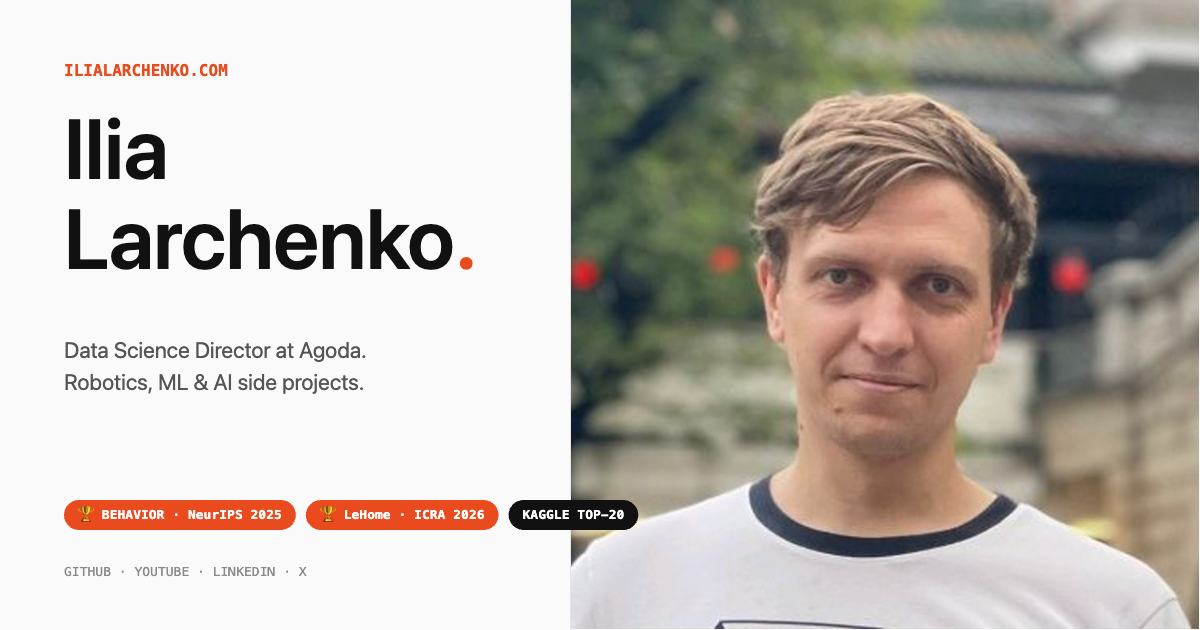
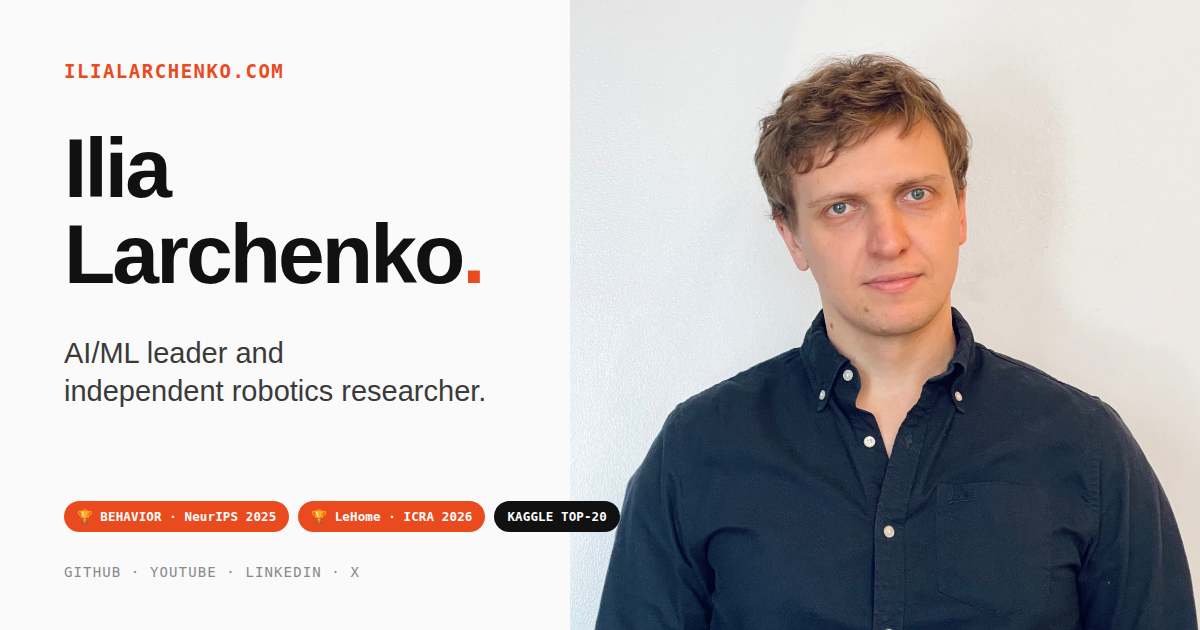
Updated the main page

diff --git a/index.html b/index.html
@@ -2,9 +2,9 @@
 <html lang="en">
 <head>
   <meta charset="utf-8">
-  <title>Ilia Larchenko — ML, AI, robotics</title>
+  <title>Ilia Larchenko | AI/ML Leader &amp; Robotics Researcher</title>
   <meta name="viewport" content="width=device-width, initial-scale=1">
-  <meta name="description" content="Ilia Larchenko — Data Science Director at Agoda, robotics &amp; ML side projects. BEHAVIOR Challenge 1st place, Kaggle TOP-20, open-source VLA models.">
+  <meta name="description" content="AI/ML leader and independent robotics researcher. Winner of the NeurIPS 2025 BEHAVIOR Challenge, 1st in simulation / 2nd on real hardware at ICRA LeHome 2026, Kaggle global top-20, Director of Data Science at Agoda.">
   <meta name="author" content="Ilia Larchenko">
   <meta name="color-scheme" content="light">
   <link rel="canonical" href="https://ilialarchenko.com/">
@@ -12,8 +12,8 @@
   <!-- ═══ Open Graph (Facebook, LinkedIn, Slack, Discord, Telegram, iMessage…) ═══ -->
   <meta property="og:type" content="profile">
   <meta property="og:site_name" content="Ilia Larchenko">
-  <meta property="og:title" content="Ilia Larchenko — ML, AI, robotics">
-  <meta property="og:description" content="Data Science Director at Agoda. Robotics, ML &amp; AI side projects. 1st place at BEHAVIOR Challenge (NeurIPS 2025) and LeHome Challenge (ICRA 2026). Kaggle TOP-20.">
+  <meta property="og:title" content="Ilia Larchenko | AI/ML Leader &amp; Robotics Researcher">
+  <meta property="og:description" content="AI/ML leader and independent robotics researcher. Winner of the NeurIPS 2025 BEHAVIOR Challenge, 1st in simulation / 2nd on real hardware at ICRA LeHome 2026, Kaggle global top-20, Director of Data Science at Agoda.">
   <meta property="og:url" content="https://ilialarchenko.com/">
   <meta property="og:locale" content="en_US">
   <meta property="og:image" content="https://ilialarchenko.com/assets/og-image.png">
@@ -21,7 +21,7 @@
   <meta property="og:image:type" content="image/png">
   <meta property="og:image:width" content="1200">
   <meta property="og:image:height" content="630">
-  <meta property="og:image:alt" content="Ilia Larchenko — Data Science Director at Agoda. Robotics, ML &amp; AI side projects.">
+  <meta property="og:image:alt" content="Ilia Larchenko — AI/ML leader and independent robotics researcher.">
   <meta property="profile:first_name" content="Ilia">
   <meta property="profile:last_name" content="Larchenko">
   <meta property="profile:username" content="IliaLarchenko">
@@ -30,10 +30,10 @@
   <meta name="twitter:card" content="summary_large_image">
   <meta name="twitter:site" content="@IliaLarchenko">
   <meta name="twitter:creator" content="@IliaLarchenko">
-  <meta name="twitter:title" content="Ilia Larchenko — ML, AI, robotics">
-  <meta name="twitter:description" content="Data Science Director at Agoda. Robotics, ML &amp; AI side projects. 1st place at BEHAVIOR (NeurIPS 2025) and LeHome (ICRA 2026). Kaggle TOP-20.">
+  <meta name="twitter:title" content="Ilia Larchenko | AI/ML Leader &amp; Robotics Researcher">
+  <meta name="twitter:description" content="AI/ML leader and independent robotics researcher. NeurIPS 2025 BEHAVIOR Challenge winner, 1st sim / 2nd real at ICRA LeHome 2026, Kaggle global top-20, Director of Data Science at Agoda.">
   <meta name="twitter:image" content="https://ilialarchenko.com/assets/og-image.png">
-  <meta name="twitter:image:alt" content="Ilia Larchenko — Data Science Director at Agoda. Robotics, ML &amp; AI side projects.">
+  <meta name="twitter:image:alt" content="Ilia Larchenko — AI/ML leader and independent robotics researcher.">
 
   <!-- ═══ Theme color for browser chrome on share previews / mobile ═══ -->
   <meta name="theme-color" content="#FAFAFA">
@@ -48,8 +48,16 @@
     "familyName": "Larchenko",
     "url": "https://ilialarchenko.com/",
     "image": "https://ilialarchenko.com/assets/og-image.png",
+    "description": "AI/ML leader and independent robotics researcher. Director of Data Science at Agoda. Winner of the NeurIPS 2025 BEHAVIOR Challenge; 1st in simulation and 2nd on real hardware at the ICRA 2026 LeHome Challenge; Kaggle global top-20.",
     "jobTitle": "Director of Data Science",
     "worksFor": { "@type": "Organization", "name": "Agoda" },
+    "knowsAbout": ["Robotics", "Reinforcement learning", "Imitation learning", "Vision-language-action models", "Sim-to-real transfer", "Robot manipulation", "Machine learning", "Data science"],
+    "award": [
+      "1st place, BEHAVIOR Challenge (NeurIPS 2025)",
+      "1st place simulation round and 2nd place real-robot final, LeHome Challenge (ICRA 2026)",
+      "3rd place, Abstraction and Reasoning Challenge (Kaggle 2020)",
+      "Kaggle Competitions Master, peak global top-20"
+    ],
     "alumniOf": { "@type": "CollegeOrUniversity", "name": "Moscow Institute of Physics and Technology" },
     "sameAs": [
       "https://github.com/IliaLarchenko",
@@ -251,6 +259,22 @@
       color: var(--fg-2);
       max-width: 560px;
     }
+    .tile-name p.tagline {
+      font-size: clamp(17px, 1.7vw, 21px);
+      font-weight: 500;
+      line-height: 1.35;
+      letter-spacing: -0.01em;
+      color: var(--fg-1);
+    }
+    .tile-name p.creds {
+      margin-top: 12px;
+      font-family: var(--font-mono);
+      font-size: 12.5px;
+      line-height: 1.7;
+      letter-spacing: 0.01em;
+      color: var(--fg-2);
+    }
+    .tile-name p.creds .sep { color: var(--fg-3); margin: 0 4px; }
     .tile-photo {
       padding: 0;
       overflow: hidden;
@@ -331,6 +355,13 @@
       border-bottom: 1px solid transparent;
     }
     .section-head .more:hover { color: var(--fg-1); border-bottom-color: var(--fg-1); }
+    .section-intro {
+      margin: -12px 0 28px;
+      max-width: 72ch;
+      font-size: 16px;
+      line-height: 1.6;
+      color: var(--fg-2);
+    }
 
     /* ─── About ────────────────────────────────────────────── */
     .about-grid {
@@ -686,7 +717,7 @@
     <div class="nav-sections">
       <a href="#about">About</a>
       <a href="#career">Career</a>
-      <a href="#competitions">Competitions</a>
+      <a href="#research">Research &amp; Competitions</a>
       <a href="#videos">Videos</a>
       <a href="#projects">Projects</a>
     </div>
@@ -721,7 +752,8 @@
         <!-- Name + intro -->
         <div class="tile tile-name">
           <h1>Ilia<br>Larchenko<span class="accent">.</span></h1>
-          <p>Data Science Director at Agoda · Experimenting with AI and Robotics on the side · Successfully participating in ML competitions.</p>
+          <p class="tagline">AI/ML leader and independent robotics researcher.</p>
+          <p class="creds">NeurIPS BEHAVIOR '25 winner<span class="sep">·</span>ICRA LeHome '26: 1st sim / 2nd real<span class="sep">·</span>Kaggle global top-20<span class="sep">·</span>Director @ Agoda</p>
         </div>
 
         <!-- Photo -->
@@ -736,7 +768,7 @@
         <div data-size="wide" class="tile tile-stat accent">
           <span class="meta">Experience</span>
           <div class="num"><span class="accent">14 years</span> · <span class="src">DS, ML &amp; AI</span></div>
-          <div class="sub">Leadership &amp; hands-on</div>
+          <div class="sub">Executive leadership &amp; hands-on research</div>
         </div>
 
         <!-- Kaggle TOP-20 -->
@@ -747,23 +779,23 @@
         </a>
 
         <!-- BEHAVIOR award -->
-        <a href="#competitions" data-size="wide" class="tile tile-stat" style="text-decoration:none;">
+        <a href="#research" data-size="wide" class="tile tile-stat" style="text-decoration:none;">
           <span class="meta">🏆 NeurIPS 2025</span>
           <div class="num"><span class="accent">1<span class="ord">st</span> place</span> · <span class="src">BEHAVIOR Challenge</span></div>
-          <div class="sub">Long-horizon household tasks · Stanford VL lab</div>
+          <div class="sub">50 long-horizon household tasks · VLA policy</div>
         </a>
 
         <!-- LeHome award — mirrors BEHAVIOR; rounds (small) · LeHome Challenge -->
-        <a href="#competitions" data-size="wide" class="tile tile-stat tile-lehome" style="text-decoration:none;">
+        <a href="#research" data-size="wide" class="tile tile-stat tile-lehome" style="text-decoration:none;">
           <span class="meta">🏆 ICRA 2026</span>
-          <div class="num"><span class="accent rounds-inline">1<span class="ord">st</span> Online <span class="bar">|</span> 2<span class="ord">nd</span> Offline</span> · <span class="src">LeHome Challenge</span></div>
-          <div class="sub">Bimanual garment folding · RL + VLA</div>
+          <div class="num"><span class="accent rounds-inline">1<span class="ord">st</span> sim <span class="bar">|</span> 2<span class="ord">nd</span> real</span> · <span class="src">LeHome Challenge</span></div>
+          <div class="sub">Solo entry · bimanual garment folding · VLA + RL</div>
         </a>
 
         <!-- GitHub stars -->
         <a href="https://github.com/IliaLarchenko" target="_blank" rel="noopener noreferrer" class="tile tile-stat" style="text-decoration:none;">
           <span class="meta">GitHub</span>
-          <div class="num"><span class="accent">900<span class="plus">+</span></span> · <span class="src">GitHub stars</span></div>
+          <div class="num"><span class="accent">1000<span class="plus">+</span></span> · <span class="src">GitHub stars</span></div>
           <div class="sub">Across open-source repos</div>
         </a>
 
@@ -771,11 +803,11 @@
         <a href="https://www.youtube.com/@ilialarchenko" target="_blank" rel="noopener noreferrer" class="tile tile-stat" style="text-decoration:none;">
           <span class="meta">YouTube</span>
           <div class="num"><span class="accent">7K<span class="plus">+</span></span> · <span class="src">YouTube subs</span></div>
-          <div class="sub">Deep robotics &amp; ML videos</div>
+          <div class="sub">Technical robotics &amp; AI videos</div>
         </a>
 
         <!-- ARC podium -->
-        <a href="#competitions" class="tile tile-stat" style="text-decoration:none;">
+        <a href="#research" class="tile tile-stat" style="text-decoration:none;">
           <span class="meta">Kaggle 2020</span>
           <div class="num"><span class="accent">3<span class="ord">rd</span> place</span> · <span class="src">ARC Challenge</span></div>
           <div class="sub">Predecessor of ARC-AGI benchmark</div>
@@ -799,9 +831,10 @@
     </div>
 
     <div class="about-grid">
-      <p>I'm Ilia Larchenko — Director of Data Science at Agoda in Bangkok, with 14 years across DS, ML and analytics. My teams ship high-load production systems for pricing and bidding optimization, customer-behavior and LTV prediction, agentic AI services and other projects. In my free time I work on robotics, ML and AI side projects.</p>
-      <p>In the past I was top-20 globally on Kaggle, more recently I won robotics competitions: BEHAVIOR-1K (NeurIPS 2025) and LeHome (1st in the online and 2nd in the real-world round, ICRA 2026).</p>
-      <p>I post videos on YouTube and ship code on GitHub. I like to share my knowledge and explain complex technical problems in a clear and simple way.</p>
+      <p>I'm Ilia Larchenko, an <span class="accent">AI/ML leader</span> and <span class="accent">independent robotics researcher</span> based in Bangkok.</p>
+      <p>At Agoda, I lead multiple Data Science and Machine Learning teams working across pricing, bidding, LTV attribution, experimentation, FinTech, bot detection, and LLM agents. I combine organizational leadership with hands-on technical and system-architecture work.</p>
+      <p>I also conduct independent robotics research, focusing on reinforcement learning, imitation learning, VLA models, sim2real, and real-world manipulation. Recent results include winning the NeurIPS 2025 BEHAVIOR Challenge and placing 1st in simulation and 2nd on real hardware in the ICRA 2026 LeHome Challenge. Earlier, I reached the global top-20 on Kaggle.</p>
+      <p>I publish code, technical reports, experiments, and detailed videos through GitHub, arXiv, this website, and YouTube.</p>
     </div>
   </div>
 </section>
@@ -825,7 +858,8 @@
         <div class="tl-body">
           <h3>Director, Data Science</h3>
           <p class="org">Agoda · Bangkok</p>
-          <p>Leading multiple DS/ML teams across pricing, bidding, LTV attribution, experimentation, FinTech, bot detection, and LLM agents.</p>
+          <p>Lead multiple DS/ML teams across pricing, bidding, LTV attribution, experimentation, FinTech, bot detection, content optimization, and LLM agents.</p>
+          <p>Directly manage ~20 people while providing technical and architectural leadership across larger cross-functional organizations. ML systems built by my teams are <b>used by millions of customers</b>.</p>
         </div>
       </div>
 
@@ -867,13 +901,13 @@
 </section>
 
 <!-- ════════════════════════════════════════════════════════════
-     COMPETITIONS
+     RESEARCH & COMPETITIONS
      ════════════════════════════════════════════════════════════ -->
-<section id="competitions">
+<section id="research">
   <div class="container">
     <div class="section-head">
       <span class="num">03 /</span>
-      <h2>Competitions</h2>
+      <h2>Research &amp; Competitions</h2>
       <span class="rule"></span>
     </div>
 
@@ -881,21 +915,22 @@
 
       <article class="award-card featured">
         <div class="award-body">
-          <div class="award-eyebrow"><span class="place">🏆 1st place</span><span>ICRA · 2026 · online round</span></div>
-          <h3>LeHome Challenge — Online</h3>
-          <p>1st place in the online round of the LeHome Challenge (ICRA 2026). The task was to train a bimanual robot in simulation to fold 4 different types of garments. I implemented the whole distributed RL pipeline from scratch, combining existing approaches with new ideas across model architecture, reward design, RL logic, and data collection.</p>
+          <div class="award-eyebrow"><span class="place">🥇 1st / 62 simulation</span><span class="place silver">🥈 2nd real-world</span><span>ICRA · 2026</span></div>
+          <h3>LeHome Challenge</h3>
+          <p>Solo entry in a bimanual garment-folding challenge. In simulation, I built an end-to-end VLA + RL pipeline with asynchronous distributed training, value prediction, advantage conditioning, and inference-time optimization, finishing 1st of 62 teams. For the real-world final, I built the sim2real and DAgger-like data-collection pipeline and adapted the policy to physical hardware in about a week, finishing 2nd.</p>
           <div class="award-tags">
-            <span>ICRA 2026</span><span>Robotics</span><span>RL</span><span>VLA</span>
+            <span>VLA</span><span>RL</span><span>sim2real</span>
           </div>
           <div class="award-links">
-            <a href="https://ilialarchenko.com/projects/lehome2026" target="_blank" rel="noopener noreferrer">Blog post ↗</a>
+            <a href="https://ilialarchenko.com/projects/lehome2026" target="_blank" rel="noopener noreferrer">Solution blog ↗</a>
+            <a href="https://arxiv.org/abs/2606.27163" target="_blank" rel="noopener noreferrer">Paper ↗</a>
             <a href="https://github.com/IliaLarchenko/lehome_solution" target="_blank" rel="noopener noreferrer">Code ↗</a>
-            <a class="subtle" href="https://lehome-challenge.com/" target="_blank" rel="noopener noreferrer">Challenge site ↗</a>
+            <a class="subtle" href="https://lehome-challenge.com/" target="_blank" rel="noopener noreferrer">Challenge ↗</a>
           </div>
         </div>
         <div class="award-media">
-          <div class="frame click-to-load award-frame" data-yt-id="6B4X6_S9_uk" data-yt-title="LeHome Challenge — winning run">
-            <img referrerpolicy="no-referrer" src="https://i.ytimg.com/vi/6B4X6_S9_uk/hqdefault.jpg" alt="" loading="lazy">
+          <div class="frame click-to-load award-frame" data-yt-id="_LBU3ue0CpU" data-yt-title="LeHome Challenge — solution overview">
+            <img referrerpolicy="no-referrer" src="https://i.ytimg.com/vi/_LBU3ue0CpU/hqdefault.jpg" alt="" loading="lazy">
             <span class="play-btn" aria-hidden="true"></span>
             <span class="yt-tag">YT</span>
           </div>
@@ -904,34 +939,11 @@
 
       <article class="award-card featured">
         <div class="award-body">
-          <div class="award-eyebrow"><span class="place silver">🥈 2nd place</span><span>ICRA · 2026 · offline round</span></div>
-          <h3>LeHome Challenge — Offline</h3>
-          <p>2nd place in the offline (real-world) round of the LeHome Challenge (ICRA 2026). I transferred the folding policy from simulation to the real robot: set up the experimentation rig, implemented a DAgger-like data-collection pipeline from scratch, and trained a working policy in ~1 week.</p>
-          <div class="award-tags">
-            <span>sim-to-real</span><span>DAgger</span><span>deformable objects</span>
-          </div>
-          <div class="award-links">
-            <a href="https://ilialarchenko.com/projects/lehome2026" target="_blank" rel="noopener noreferrer">Blog post ↗</a>
-            <a href="https://github.com/IliaLarchenko/lehome_solution" target="_blank" rel="noopener noreferrer">Code ↗</a>
-            <a class="subtle" href="https://lehome-challenge.com/" target="_blank" rel="noopener noreferrer">Challenge site ↗</a>
-          </div>
-        </div>
-        <div class="award-media">
-          <div class="frame click-to-load award-frame" data-yt-id="d6Eajjzcg5k" data-yt-title="LeHome Challenge — offline round, real robot">
-            <img referrerpolicy="no-referrer" src="https://i.ytimg.com/vi/d6Eajjzcg5k/hqdefault.jpg" alt="" loading="lazy">
-            <span class="play-btn" aria-hidden="true"></span>
-            <span class="yt-tag">YT</span>
-          </div>
-        </div>
-      </article>
-
-      <article class="award-card featured">
-        <div class="award-body">
-          <div class="award-eyebrow"><span class="place">🏆 1st place</span><span>NeurIPS · 2025</span></div>
+          <div class="award-eyebrow"><span class="place">🥇 1st place</span><span>NeurIPS · 2025</span></div>
           <h3>BEHAVIOR Challenge</h3>
-          <p>1st place in the BEHAVIOR Challenge at NeurIPS 2025 (from Stanford VL lab) — 50 long-horizon household tasks in the simulator. Our team of 3 trained a modified Pi0.5 VLA policy on demonstrations.</p>
+          <p>Winner of the BEHAVIOR Challenge at NeurIPS 2025, organized by the Stanford Vision &amp; Learning lab: 50 long-horizon household tasks in simulation. Our team of three trained a modified Pi0.5 VLA policy on demonstrations and released the tech report on arXiv, the code, and a detailed video.</p>
           <div class="award-tags">
-            <span>NeurIPS 2025</span><span>Robotics</span><span>VLA</span><span>Pi0.5</span>
+            <span>VLA</span><span>Pi0.5</span><span>Long-horizon</span><span>Imitation learning</span>
           </div>
           <div class="award-links">
             <a href="https://arxiv.org/abs/2512.06951" target="_blank" rel="noopener noreferrer">Tech report ↗</a>
@@ -952,7 +964,7 @@
         <div class="award-body">
           <div class="award-eyebrow"><span class="place" style="background:var(--fg-1);">Kaggle Master</span><span>Kaggle</span></div>
           <h3>Kaggle Competitions Master</h3>
-          <p><b>25 medals in competitions</b>, peak <b>top-20 globally</b> out of 150k+ users. Master tier in both Competitions and Notebooks.</p>
+          <p><b>25 competition medals</b>, peak <b>top-20 globally</b> out of 150k+ users. Master tier in both Competitions and Notebooks.</p>
           <div class="award-tags">
             <span>Competitions Master</span><span>Notebooks Master</span><span>25 medals</span>
           </div>
@@ -1009,6 +1021,7 @@
       <span class="rule"></span>
       <a class="more" href="https://www.youtube.com/@ilialarchenko/videos" target="_blank" rel="noopener noreferrer">Channel · @ilialarchenko ↗</a>
     </div>
+    <p class="section-intro">I publish detailed technical videos about robotics and AI, usually based on systems I have built myself. Topics include VLA models, reinforcement learning, imitation learning, sim2real, robot control, and competition solutions.</p>
 
     <div class="video-rail-wrap">
       <button class="rail-btn prev" type="button" aria-label="Previous" data-rail-dir="-1">
@@ -1042,7 +1055,7 @@
   <div class="container">
     <div class="section-head">
       <span class="num">05 /</span>
-      <h2>Other pet projects</h2>
+      <h2>Selected Projects</h2>
       <span class="rule"></span>
       <a class="more" href="https://github.com/IliaLarchenko" target="_blank" rel="noopener noreferrer">All repos on GitHub ↗</a>
     </div>
@@ -1051,7 +1064,7 @@
 
       <article class="award-card">
         <div class="award-body">
-          <div class="award-eyebrow"><span class="place" style="background:var(--fg-1);">Repo</span><span>Behavior cloning</span></div>
+          <div class="award-eyebrow"><span class="place" style="background:var(--fg-1);">Open source</span><span>Behavior cloning</span></div>
           <h3>dot_policy</h3>
           <p>Decoder-Only Transformer behavior-cloning policy. Sometimes <b>100× smaller</b> than SOTA, no diffusion, no tokenization, no RL — very simple, but beats the prior best on PushT and ALOHA Insert.</p>
           <div class="award-tags">
@@ -1072,7 +1085,7 @@
 
       <article class="award-card">
         <div class="award-body">
-          <div class="award-eyebrow"><span class="place" style="background:var(--fg-1);">Repo</span><span>LLM + robotics</span></div>
+          <div class="award-eyebrow"><span class="place" style="background:var(--fg-1);">Open source</span><span>LLM + robotics</span></div>
           <h3>robot_MCP</h3>
           <p>A <b>Model Context Protocol</b> server for the SO-ARM100 low-cost robot arm. Lets an LLM drive the arm directly through tool calls — no separate robotics policy required.</p>
           <div class="award-tags">
